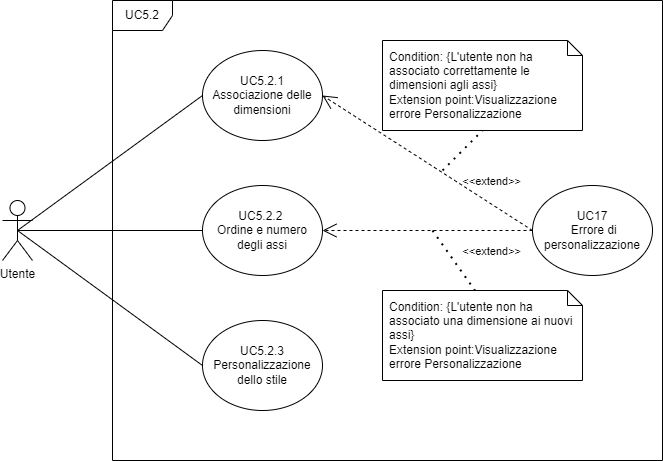
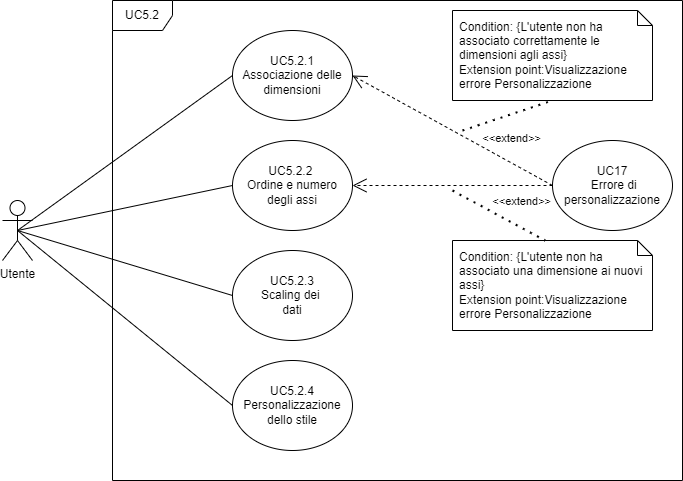
Aggiornato UC5

diff --git a/documenti/Analisi-dei-requisiti/sezioni/casi_uso.tex b/documenti/Analisi-dei-requisiti/sezioni/casi_uso.tex
@@ -207,12 +207,13 @@ Non essendo richiesto nessun tipo di servizio di autenticazione o più in genera
 \end{figure}
 \begin{itemize}
 	\item \textbf{Attore primario:} Utente.
-	\item \textbf{Precondizioni:} L'utente ha scelto uno dei grafici a disposizione nell'interfaccia [UC2].
+	\item \textbf{Precondizioni:} L'utente ha scelto uno dei grafici a disposizione nell'interfaccia \hyperref[sec:UC2]{UC2}.
 	\item \textbf{Postcondizioni:} Il grafico viene ridisegnato secondo le scelte selezionate dall'utente.
 	\item \textbf{Scenario principale:}
 	\begin{enumerate}
-    		\item L'utente seleziona il tipo di grafico e i colori che desidera e, per ogni elemento cambiato, i valori di default del grafico
-    vengono cambiati. Nel caso si scelga di tornare alla vista di default, le modifiche eseguite torneranno ai valori standard.
+		\item Per ogni grafico l'utente ha a disposizione delle modifiche specifiche su: dimensione, ordinamento e numero degli assi, scelta della funzione di forza, dell'algoritmo di integrazione, e ordinamento dei dati.
+    		\item L'utente modifica anche lo stile del grafico.
+    		\item Nel caso si scelga di tornare alla vista di default, le modifiche eseguite torneranno ai valori standard.
     \end{enumerate}
     \item \textbf{Generalizzazioni}:
     \begin{itemize}
@@ -250,7 +251,7 @@ Non essendo richiesto nessun tipo di servizio di autenticazione o più in genera
 \label{sec:UC5.1.1}
     \begin{itemize}
         \item \textbf{Attore primario:} Utente.
-        \item \textbf{Precondizioni:} L'utente ha selezionato lo scatter plot \hyperref[sec:UC2.1]{UC2.1}.
+        \item \textbf{Precondizioni:} L'utente ha selezionato il grafico \textit{Scatter Plot} \hyperref[sec:UC2.1]{UC2.1}.
 	    \item \textbf{Postcondizioni:} L'utente ha associato le dimensioni disponibili con gli assi del grafico.
 	    \item \textbf{Scenario principale:} 
 	    \begin{enumerate}
@@ -266,11 +267,12 @@ Non essendo richiesto nessun tipo di servizio di autenticazione o più in genera
 \label{sec:UC5.1.2}
     \begin{itemize}
         \item \textbf{Attore primario:} Utente.
-        \item \textbf{Precondizioni:} L'utente ha selezionato lo scatter plot \hyperref[sec:UC2.1]{UC2.1}.
-	    \item \textbf{Postcondizioni:} L'utente ha selezionato tra le opzioni disponibili lo stile che preferisce.
+        \item \textbf{Precondizioni:} L'utente ha selezionato il grafico \textit{Scatter Plot} \hyperref[sec:UC2.1]{UC2.1}.
+	    \item \textbf{Postcondizioni:} L'utente ha associato nuovi colori ai punti.
 	    \item \textbf{Scenario principale:} 
 	    \begin{enumerate}
-	    		\item L'utente visualizza le opzioni di colori per la personalizzazione di ogni specifica del grafico, nel caso l'utente non li modifichi rimangono quelli di default.
+	    		\item L'utente visualizza le opzioni di colori per la personalizzazione di ogni specifica del grafico.
+	    		\item Nel caso l'utente non li modifichi rimangono quelli di default.
 		\end{enumerate}
     \end{itemize}
 
@@ -284,13 +286,14 @@ Non essendo richiesto nessun tipo di servizio di autenticazione o più in genera
 \end{figure}
 \begin{itemize}
     \item \textbf{Attore primario:} Utente.
-	\item \textbf{Precondizioni:} L'utente ha scelto il grafico Parallel coordinates. \hyperref[sec:UC2.1]{UC2.1}.
+	\item \textbf{Precondizioni:} L'utente ha scelto il grafico \textit{Parallel coordinates} \hyperref[sec:UC2.2]{UC2.2}.
 	\item \textbf{Postcondizioni:} Il grafico viene ridisegnato secondo le scelte selezionate dall'utente.
 	\item \textbf{Scenario principale:} L'utente decide:
 	\begin{enumerate}
         \item Associazione delle dimensioni \hyperref[sec:UC5.2.1]{UC5.2.1}.
         \item Ordine degli assi \hyperref[sec:UC5.2.2]{UC5.2.2}.
-        \item Personalizzazione dello stile \hyperref[sec:UC5.2.3]{UC5.2.3}.
+        \item \textit{Scaling} dei dati \hyperref[sec:UC5.2.3]{UC5.2.3}.
+        \item Personalizzazione dello stile \hyperref[sec:UC5.2.4]{UC5.2.4}.
     \end{enumerate}
 \end{itemize}
 
@@ -298,7 +301,7 @@ Non essendo richiesto nessun tipo di servizio di autenticazione o più in genera
 \label{sec:UC5.2.1}
     \begin{itemize}
         \item \textbf{Attore primario:} Utente.
-        \item \textbf{Precondizioni:} L'utente ha selezionato Parallel coordinates. \hyperref[sec:UC2.2]{UC2.2}.
+        \item \textbf{Precondizioni:} L'utente ha selezionato \textit{Parallel coordinates} \hyperref[sec:UC2.2]{UC2.2}.
 	    \item \textbf{Postcondizioni:} L'utente ha associato le dimensioni disponibili con gli assi del grafico.
 	    \item \textbf{Scenario principale:}
 	    \begin{enumerate}
@@ -307,15 +310,15 @@ Non essendo richiesto nessun tipo di servizio di autenticazione o più in genera
 	    \item \textbf{Estensioni:} Nel caso l'utente non abbia associato correttamente le dimensioni agli assi del grafico:
               \begin{itemize}
                   \item Non viene visualizzato nessun grafico.
-                  \item Viene visualizzato un errore di visualizzazione personalizzazione grafico \hyperref[sec:UC - Errore di personalizzazione]{UC?}.
+                  \item Viene visualizzato un errore di personalizzazione grafico \hyperref[sec:UC - Errore di personalizzazione]{UC?}.
               \end{itemize}
     \end{itemize}
 \paragraph{UC5.2.2 - Ordine e numero degli assi}
 \label{sec:UC5.2.2}
     \begin{itemize}
         \item \textbf{Attore primario:} Utente.
-        \item \textbf{Precondizioni:} L'utente ha selezionato Parallel coordinates. \hyperref[sec:UC2.2]{UC2.2}.
-	    \item \textbf{Postcondizioni:} L'utente ha deciso un ordine degli assi e il loro numero.
+        \item \textbf{Precondizioni:} L'utente ha selezionato \textit{Parallel coordinates} \hyperref[sec:UC2.2]{UC2.2}.
+	    \item \textbf{Postcondizioni:} L'utente ha modificato l'ordine verticale degli assi e il numero, il grafico quindi riduce o aumenta gli intrecci paralleli.
 	    \item \textbf{Scenario principale:} 
 	    \begin{enumerate}
 	    		\item L'utente sceglie ordine e numero degli assi.
@@ -323,35 +326,48 @@ Non essendo richiesto nessun tipo di servizio di autenticazione o più in genera
 	    \item \textbf{Estensioni:} Nel caso l'utente abbia creato nuovi assi ma non abbia associato nessuna dimensione ad essi:
               \begin{itemize}
                   \item Non viene visualizzato nessun grafico.
-                  \item Viene visualizzato un errore di visualizzazione personalizzazione grafico.
+                  \item Viene visualizzato un errore di personalizzazione grafico.
               \end{itemize}
     \end{itemize}
-
-\paragraph{UC5.2.3 - Personalizzazione dello stile}
+    
+\paragraph{UC5.2.3 - Scaling dei dati}
 \label{sec:UC5.2.3}
     \begin{itemize}
         \item \textbf{Attore primario:} Utente.
-        \item \textbf{Precondizioni:} L'utente ha selezionato Parallel coordinates \hyperref[sec:UC2.2]{UC2.2}.
-	    \item \textbf{Postcondizioni:} L'utente ha selezionato tra le opzioni disponibili lo stile che preferisce.
+        \item \textbf{Precondizioni:} L'utente ha selezionato \textit{Parallel coordinates} \hyperref[sec:UC2.2]{UC2.2}.
+	    \item \textbf{Postcondizioni:} L'utente ha ridimensionato i dati in una nuova scala comune tra le variabili o viceversa.
 	    \item \textbf{Scenario principale:} 
 	    \begin{enumerate}
-	    		\item L'utente visualizza le opzioni di colori per la personalizzazione di ogni specifica del grafico, nel caso l'utente non li modifichi rimangono quelli di default.
+	    		\item L'utente sceglie lo \textit{scaling} dei dati.
+		\end{enumerate}
+    \end{itemize}
+
+\paragraph{UC5.2.4 - Personalizzazione dello stile}
+\label{sec:UC5.2.4}
+    \begin{itemize}
+        \item \textbf{Attore primario:} Utente.
+        \item \textbf{Precondizioni:} L'utente ha selezionato \textit{Parallel coordinates} \hyperref[sec:UC2.2]{UC2.2}.
+	    \item \textbf{Postcondizioni:} L'utente ha evidenziato uno specifico gruppo di linee di interesse modificandone i colori.
+	    \item \textbf{Scenario principale:} 
+	    \begin{enumerate}
+	    		\item L'utente visualizza le opzioni di colori per la personalizzazione
+	    		\item Nel caso l'utente non li modifichi rimangono quelli di default.
 		\end{enumerate}
     \end{itemize}
 
 
 % FORCE-DIRECTED GRAPH 
 \newpage
-\subsubsection{UC5.3 - Personalizzazione Force-directed graph}
+\subsubsection{UC5.3 - Personalizzazione Force-directed Graph}
 \label{sec:UC5.3}
 \begin{figure}[h!]
 	\centering
 	\includegraphics[scale=0.60]{../../assets/personalizzazioneForce-directedGraph.png}
-	\caption{UC5.3 - Personalizzazione Force-directed graph}
+	\caption{UC5.3 - Personalizzazione Force-directed Graph}
 \end{figure}
 \begin{itemize}
     \item \textbf{Attore primario:} Utente.
-	\item \textbf{Precondizioni:} L'utente ha scelto il grafico Force-directed graph. \hyperref[sec:UC2.3]{UC2.3}.
+	\item \textbf{Precondizioni:} L'utente ha scelto il grafico \textit{Force-directed graph} \hyperref[sec:UC2.3]{UC2.3}.
 	\item \textbf{Postcondizioni:} Il grafico viene ridisegnato secondo le scelte selezionate dall'utente.
 	\item \textbf{Scenario principale:}L'utente decide:
 	\begin{enumerate}
@@ -364,8 +380,8 @@ Non essendo richiesto nessun tipo di servizio di autenticazione o più in genera
 \label{sec:UC5.3.1}
     \begin{itemize}
         \item \textbf{Attore primario:} Utente.
-        \item \textbf{Precondizioni:} L'utente ha selezionato Force-directed graph. \hyperref[sec:UC2.3]{UC2.3}.
-	    \item \textbf{Postcondizioni:} L'utente ha associato l'algoritmo d'integrazione che desidera.
+        \item \textbf{Precondizioni:} L'utente ha selezionato \textit{Force-directed graph} \hyperref[sec:UC2.3]{UC2.3}.
+	    \item \textbf{Postcondizioni:} L'utente ha scelto l'algoritmo d'integrazione che desidera.
 	    \item \textbf{Scenario principale:}
 	    \begin{enumerate}
 	    		\item L'utente sceglie l'algoritmo d'integrazione che desidera.
@@ -375,8 +391,8 @@ Non essendo richiesto nessun tipo di servizio di autenticazione o più in genera
 \label{sec:UC5.3.2}
     \begin{itemize}
         \item \textbf{Attore primario:} Utente.
-        \item \textbf{Precondizioni:} L'utente ha selezionato Force-directed graph. \hyperref[sec:UC2.3]{UC2.3}.
-	    \item \textbf{Postcondizioni:} L'utente ha deciso i parametri per la rappresentazione.
+        \item \textbf{Precondizioni:} L'utente ha selezionato \textit{Force-directed graph} \hyperref[sec:UC2.3]{UC2.3}.
+	    \item \textbf{Postcondizioni:} L'utente ha deciso la funzione di forza per i nodi.
 	    \item \textbf{Scenario principale:} 
 	    \begin{enumerate}
 	    		\item L'utente sceglie i parametri per la rappresentazione dei rapporti tra i nodi.
@@ -384,7 +400,7 @@ Non essendo richiesto nessun tipo di servizio di autenticazione o più in genera
 	    \item \textbf{Estensioni:} Nel caso i parametri non rientrino nei limiti fissati:
               \begin{itemize}
                   \item Non viene visualizzato nessun grafico.
-                  \item Viene visualizzato un errore di visualizzazione personalizzazione grafico \hyperref[sec:UC - Errore di personalizzazione]{UC?}.
+                  \item Viene visualizzato un errore di personalizzazione grafico \hyperref[sec:UC - Errore di personalizzazione]{UC?}.
               \end{itemize}
     \end{itemize}
 \paragraph{UC5.3.3 - Personalizzazione dello stile}
@@ -392,15 +408,16 @@ Non essendo richiesto nessun tipo di servizio di autenticazione o più in genera
     \begin{itemize}
         \item \textbf{Attore primario:} Utente.
         \item \textbf{Precondizioni:} L'utente ha selezionato Force-directed graph \hyperref[sec:UC2.3]{UC2.3}.
-	    \item \textbf{Postcondizioni:} L'utente ha selezionato tra le opzioni disponibili lo stile che preferisce.
+	    \item \textbf{Postcondizioni:} L'utente ha selezionato il colore per i \textit{cluster} dei nodi.
 	    \item \textbf{Scenario principale:} 
 	    \begin{enumerate}
-	    		\item L'utente visualizza le opzioni di colori per la personalizzazione di ogni specifica del grafico, nel caso l'utente non li modifichi rimangono quelli di default.
+	    		\item L'utente visualizza le opzioni di colori per la personalizzazione di ogni specifica del grafico.
+	    		\item Nel caso l'utente non li modifichi rimangono quelli di default.
 		\end{enumerate}
     \end{itemize}
 
 % SANKEY DIAGRAM
-\subsubsection{UC5.4 - Personalizzazione Sankey diagram}
+\subsubsection{UC5.4 - Personalizzazione Sankey Diagram}
 \label{sec:UC5.4}
 \begin{figure}[h!]
 	\centering
@@ -409,7 +426,7 @@ Non essendo richiesto nessun tipo di servizio di autenticazione o più in genera
 \end{figure}
 \begin{itemize}
     \item \textbf{Attore primario:} Utente.
-	\item \textbf{Precondizioni:} L'utente ha scelto il grafico Personalizzazione Sankey diagram. \hyperref[sec:UC2.4]{UC2.4}.
+	\item \textbf{Precondizioni:} L'utente ha scelto il grafico \textit{Sankey Diagram} \hyperref[sec:UC2.4]{UC2.4}.
 	\item \textbf{Postcondizioni:} Il grafico viene ridisegnato secondo le scelte selezionate dall'utente.
 	\item \textbf{Scenario principale:}L'utente decide:
 	\begin{enumerate}
@@ -421,27 +438,28 @@ Non essendo richiesto nessun tipo di servizio di autenticazione o più in genera
 \label{sec:UC5.4.1}
     \begin{itemize}
         \item \textbf{Attore primario:} Utente.
-        \item \textbf{Precondizioni:} L'utente ha selezionato Sankey diagram. \hyperref[sec:UC2.3]{UC2.3}.
+        \item \textbf{Precondizioni:} L'utente ha selezionato \textit{Sankey Diagram}. \hyperref[sec:UC2.4]{UC2.4}.
 	    \item \textbf{Postcondizioni:} L'utente ha deciso le dimensioni da rappresentare.
 	    \item \textbf{Scenario principale:}
 	    \begin{enumerate}
 	    		\item L'utente sceglie i parametri per la rappresentazione dei rapporti tra i nodi.
 		\end{enumerate}
-	    \item \textbf{Estensioni:} Nel caso i parametri non rientrino nelle relazioni fissate:
+	    \item \textbf{Estensioni:} Se non viene selezionata almeno un'origine tra i dati:
               \begin{itemize}
                   \item Non viene visualizzato nessun grafico.
-                  \item Viene visualizzato un errore di visualizzazione personalizzazione grafico \hyperref[sec:UC - Errore di personalizzazione]{UC?}.
+                  \item Viene visualizzato un errore di personalizzazione grafico \hyperref[sec:UC - Errore di personalizzazione]{UC?}.
               \end{itemize}
     \end{itemize}
 \paragraph{UC5.4.2 - Personalizzazione dello stile}
 \label{sec:UC5.4.2}
 \begin{itemize}
     \item \textbf{Attore primario:} Utente.
-    \item \textbf{Precondizioni:} L'utente ha selezionato Sankey diagram \hyperref[sec:UC2.3]{UC2.3}.
-	\item \textbf{Postcondizioni:} L'utente ha selezionato tra le opzioni disponibili lo stile che preferisce.
+    \item \textbf{Precondizioni:} L'utente ha selezionato \textit{Sankey Diagram} \hyperref[sec:UC2.4]{UC2.4}.
+	\item \textbf{Postcondizioni:} L'utente ha selezionato i colori per le fasce del grafico.
 	\item \textbf{Scenario principale:}
 	\begin{enumerate}
-		\item L'utente visualizza le opzioni di colori per la personalizzazione di ogni specifica del grafico, nel caso l'utente non li modifichi rimangono quelli di default.
+		\item L'utente visualizza le opzioni di colori per la personalizzazione di ogni specifica del grafico.
+		\item Nel caso l'utente non li modifichi rimangono quelli di default.
 	\end{enumerate}
 \end{itemize}
 

diff --git a/documenti/Analisi-dei-requisiti/sezioni/registro_modifiche.tex b/documenti/Analisi-dei-requisiti/sezioni/registro_modifiche.tex
@@ -35,5 +35,7 @@
 	0.3.7 & 06/01/2022 & Bustaffa Marco \par Beni Valentina & / & /& Stesura Requisiti \par Stesura UC11 e Errore scelta celle\\
 	\rowcolor[RGB]{233, 245, 206}
 	0.3.8 & 07/01/2022 & Beni Valentina& / &/& Stesura UC10\\
+	\rowcolor[RGB]{216, 235, 171}
+	0.3.9 & 08/01/2022 & Beni Valentina& / &/& Aggiunte funzionalità personalizzazione UC5\\
 \end{tabular}
 }
